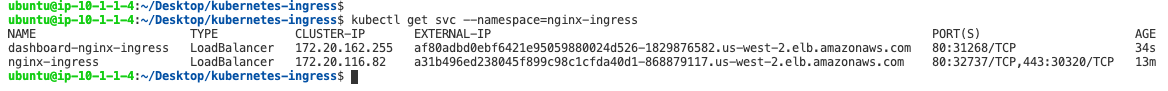
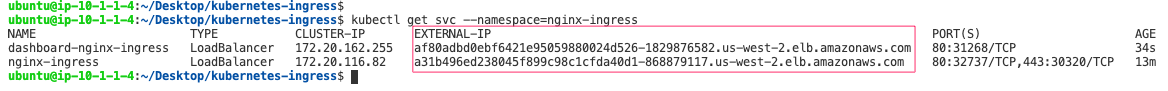
closes #64
removal of past tense context
labsetup wording for this will be deployed with terraform
image update for image27

Changed region(s): [[0.339, 0.7692, 0.8014, 0.8132], [0.339, 0.2637, 0.8014, 0.3077]]

diff --git a/docs/solutions/delivery/application_delivery_controller/nginx/kic/lab01.rst b/docs/solutions/delivery/application_delivery_controller/nginx/kic/lab01.rst
@@ -1,9 +1,9 @@
 NGINX Kubernetes Ingress Controller | Deployment
 ------------------------------------------------
 
-NGINX Ingress Controller provides a robust feature set to secure, strengthen, and scale your containerized apps, including:
+NGINX Ingress Controller provides a robust feature set to secure, strengthen, and scale containerized apps, including:
 
-- Advanced app centric configuration - Use role-based access control (RBAC) and self service to set up security guardrails (not gates), so your teams can manage their apps securely and with agility. Enable multi tenancy, reusability, simpler configs, and more.
+- Advanced app centric configuration - Use role-based access control (RBAC) and self service to set up security guardrails (not gates), so teams can manage their apps securely and with agility. Enable multi tenancy, reusability, simpler configs, and more.
 - Visibility and performance monitoring - Pinpoint undesirable behaviors and performance bottlenecks to simplify troubleshooting and make fixes faster.
 
 |image00|
@@ -26,9 +26,9 @@ NGINX Ingress Controller provides a robust feature set to secure, strengthen, an
 
    |image49|
 
-   This solution uses the purchased NGINX Ingress Controller. Through your account team, workshop registration, or an instructor, you should have received an NGINX certificate and key to access the NGINX registry. Access to the registry allows for building current NGINX products.
+   This solution uses the purchased NGINX Ingress Controller. Through an account team, workshop registration, or an instructor, you should have received an NGINX certificate and key to access the NGINX registry. Access to the registry allows for building current NGINX products.
 
-   VSCode Coder will allow you to drag files into the interface. Drag your two files to the **root** of the `Kubernetes-ingress` folder.
+   VSCode Coder will allow you to drag files into the interface. Drag the cert and key files to the **root** of the `Kubernetes-ingress` folder.
 
    Example:
 
@@ -42,7 +42,7 @@ NGINX Ingress Controller provides a robust feature set to secure, strengthen, an
 
       cat nginx-repo.*
 
-3. Verify that you have your certificate and key
+3. Verify that you have a certificate and key
 
    In the terminal window, copy the below text and paste+enter:
 
@@ -60,13 +60,13 @@ NGINX Ingress Controller provides a robust feature set to secure, strengthen, an
 
    .. note:: Building the image will take a few minutes (3-5)
 
-   Within the Kubernetes-ingress repository are all the needed files to create our nginx ingress controller docker image. With the certificate and key in place, we can **make** our image. After the image is created, our local installation of docker will push our image to the ECR we created with Terraform earlier. When Terraform applied our ECR object, it output the name of our registry. Its output was a prefix and looked like a URL.
+   Within the Kubernetes-ingress repository are all the needed files to create our NGINX Ingress Controller docker image. With the certificate and key in place, we can **make** our image. After the image is created, our local installation of docker will push our image to the ECR we created with Terraform. When Terraform applied our ECR object, it output the name of our registry. Its output was a prefix and looked like a URL.
 
    Example of Terraform outputs:
 
    |image12|
 
-   Step 1. In the terminal window, **replace** ``ecrRepositoryURL`` with your output and copy the below text and paste+enter:
+   Step 1. In the terminal window, **replace** ``ecrRepositoryURL`` with the output value and copy the below text and paste+enter:
 
    .. code-block::
 
@@ -96,7 +96,7 @@ NGINX Ingress Controller provides a robust feature set to secure, strengthen, an
 
 6. Modify the NGINX Kubernetes Ingress Controller manifest
 
-   .. warning:: Failure to update the manifest with your image:tag location will result in a failed deployment. Change Line ``1791``
+   .. warning:: Failure to update the manifest with a valid image:tag location will result in a failed deployment. Change Line ``1791``
 
    Kubernetes deployments are typically maintained through manifest files. The deployment of the NGINX Ingress Controller will be created through manifests. Multiple Kubernetes resources can be made through a single file. This environments to-be-created resources are declared in the ``nginx-ingress-install.yml`` file.
 
@@ -115,7 +115,7 @@ NGINX Ingress Controller provides a robust feature set to secure, strengthen, an
     - NGINX Ingress Controller deployment
     - NGINX Ingress Controller service
 
-   Step 1. Modify the manifests file on line ``1791`` for your ``image:tag``
+   Step 1. Modify the manifests file on line ``1791`` for the ``image:tag`` value
 
    .. note:: Docker images and tags can be found by running the docker command ``docker images``
 
@@ -137,11 +137,19 @@ NGINX Ingress Controller provides a robust feature set to secure, strengthen, an
 
 7. Deploy the NGINX Kubernetes Ingress Controller
 
+   .. note:: If the NGINX Ingress Controller Pod is not in a **running** state, verify the **image:tag** value is correct from deployment manifest
+
    In the terminal window copy the below text and paste+enter:
 
    .. code-block::
 
       kubectl apply -f /home/ubuntu/Desktop/f5-digital-customer-engagement-center/solutions/delivery/application_delivery_controller/nginx/kic/templates/nginx-ingress-install.yml
+
+   Validate that the NGINX Ingress Controller is running:
+
+   .. code-block::
+
+      kubectl -n nginx-ingress get pods -o wide
 
    Example:
 
@@ -163,7 +171,7 @@ NGINX Ingress Controller provides a robust feature set to secure, strengthen, an
 
 9. See the NGINX Ingress Controller services
 
-   .. note:: The **EXTERNAL-IP** values will be used during several parts of the lab. It is recommended to copy these to an easily referenceable location like a clipboard/digital notepad
+   .. warning:: The **EXTERNAL-IP** values will be used during several parts of the lab, in AWS this is an FQDN. It is recommended to copy these to an easily referenceable location like a clipboard/digital notepad
 
    The deployment of NGINX Controller Ingress contains two Kubernetes services: Ingress and the other for Dashboard.
 
@@ -190,15 +198,17 @@ NGINX Ingress Controller provides a robust feature set to secure, strengthen, an
 
 11. Browse to the exposed NGINX Ingress Controller services
 
+   .. note:: The Dashboard and the Ingress websites will take a few minutes to become available (1-3 Minutes)
+
     There is nothing yet deployed on NGINX Ingress Controller. However, the Dashboard and the Ingress are active. When the services were created in Kubernetes, Kubernetes created an AWS ELB. These ELBs allow for access to the services, and if the NGINX services ever scale, they will dynamically be added.
 
-    NGINX Dashboard URL (replace with your dashboard-nginx-ingress EXTERNAL-IP): ``http://EXTERNAL-IP/Dashboard.html``
+    NGINX Dashboard URL (replace with the dashboard-nginx-ingress EXTERNAL-IP): ``http://EXTERNAL-IP/Dashboard.html``
 
     Example:
 
     |image28|
 
-    NGINX Ingress Controller URL (replace with your nginx-ingress EXTERNAL-IP): ``http://EXTERNAL-IP/``
+    NGINX Ingress Controller URL (replace with the nginx-ingress EXTERNAL-IP): ``http://EXTERNAL-IP/``
 
     Example:
 

diff --git a/docs/solutions/delivery/application_delivery_controller/nginx/kic/labSetupAWS.rst b/docs/solutions/delivery/application_delivery_controller/nginx/kic/labSetupAWS.rst
@@ -5,8 +5,7 @@ Terraform_ is an open-source infrastructure as code software tool that provides 
 
 `Visual Studio Code`_ is a streamlined code editor with support for development operations like debugging, task running, and version control.
 
-
-This solution requires the following products and services.
+This solution is leveraging Terraform to create and manage the following products and services.
 
 - Amazon Elastic Container Registry (ECR)
 - Amazon Elastic Kubernetes Service (EKS)
@@ -26,7 +25,7 @@ This solution requires the following products and services.
    * OpenSSL, optionally, if you would like to generate a self-signed certificate and a key for the default server.
    * For NGINX Plus, you must have the NGINX Plus license - the certificate (nginx-repo.crt) and the key (nginx-repo.key).
 
-.. note:: Double-clicking in the empty space of VSCode will create a new file that can be used as a digital notepad
+.. note:: Double-clicking in the empty space to the right of **Welcome** tab in VSCode will create a new file that can be used as a digital notepad
 
 1. VSCode is our preferred IDE. This allows an editor and terminal within a single pane, open VSCode, and a new Terminal. If you are in the UDF environment, you can access VSCode through the **coder** access method on the **ubuntuHost** resource. Also, see `F5 UDF Environment Access`_.
 
@@ -34,7 +33,7 @@ This solution requires the following products and services.
 
    |image01|
 
-2. Set or verify your AWS credentials
+2. Set or verify environment AWS credentials
 
    .. note:: AWS Access and Secret keys for the UDF environment are located under **cloud accounts**
    .. warning:: For UDF users, the region must be ``us-west-2``
@@ -44,6 +43,17 @@ This solution requires the following products and services.
    .. code-block::
 
       aws configure
+
+   Variables Table for awscli to UDF Cloud Accounts:
+
+   ===================== ===========================================================
+   Variable Name         Cloud Account Variable Value
+   ===================== ===========================================================
+   AWS Access Key ID     API Key
+   AWS Secret Access Key API Secret
+   Default region name   us-west-2
+   Default ouput format  json
+   ===================== ===========================================================
 
    Example:
 
@@ -89,7 +99,7 @@ This solution requires the following products and services.
 
       cat ~/udf_user.pub
 
-   Copy the output to be used in the next step, or provide your SSH key.
+   Copy the output to be used in the next step, or provide an SSH key.
 
    Example:
 
@@ -124,7 +134,9 @@ This solution requires the following products and services.
    |image08|
    |image09|
 
-7. Run the setup script - this will create objects in your AWS account.
+7. Run the setup script - **This will create AWS resource objects**
+
+
 
    In the terminal window copy the below text and paste+enter:
 
@@ -156,7 +168,7 @@ This solution requires the following products and services.
 
    |image12|
 
-10. All of the Terraform-created objects are dynamic, so until running the Terraform template they didn’t exist. Now that the resources are created, we need to apply access to those services.
+10. All of the Terraform-created objects are dynamic, so until running the Terraform template they did not exist. Now that the resources are created, we need to apply access to those services.
 
     Step 1: Log in to ECR. Change the ``ecrRepositoryURL`` to the terraform output.
 
@@ -164,7 +176,7 @@ This solution requires the following products and services.
 
     .. code-block::
 
-       aws ecr get-login-password --region us-west-2 | docker login --username AWS --password-stdin  ecrRepositoryURL
+       aws ecr get-login-password --region us-west-2 | docker login --username AWS --password-stdin ecrRepositoryURL
 
     ECR is used as our registry for the Kubernetes environment. Registries are used to keep container images for  lifecycle and deployments. NGINX Ingress Controller is a container.
 

diff --git a/docs/solutions/delivery/application_delivery_controller/nginx/kic/lab03.rst b/docs/solutions/delivery/application_delivery_controller/nginx/kic/lab03.rst
@@ -34,7 +34,7 @@ Custom resources can appear and disappear in a running cluster through dynamic r
 
    NGINX Dashboard should be updated reflecting the new services discovered
 
-   NGINX Dashboard URL (replace with your dashboard-nginx-ingress EXTERNAL-IP): ``http://EXTERNAL-IP/Dashboard.html``
+   NGINX Dashboard URL (replace with the dashboard-nginx-ingress EXTERNAL-IP): ``http://EXTERNAL-IP/Dashboard.html``
 
    Example:
 
@@ -42,7 +42,7 @@ Custom resources can appear and disappear in a running cluster through dynamic r
 
    Arcadia application is now exposed through the NGINX Ingress Controller on HTTP!
 
-   NGINX Ingress Controller URL (replace with your nginx-ingress EXTERNAL-IP): ``http://EXTERNAL-IP/``
+   NGINX Ingress Controller URL (replace with the nginx-ingress EXTERNAL-IP): ``http://EXTERNAL-IP/``
 
    Example:
 
@@ -70,7 +70,7 @@ Custom resources can appear and disappear in a running cluster through dynamic r
 
    Arcadia application is now exposed through the NGINX Ingress Controller on HTTP!
 
-   NGINX Ingress Controller URL (replace with your nginx-ingress EXTERNAL-IP): ``https://EXTERNAL-IP/`` or ``https://EXTERNAL-IP/``
+   NGINX Ingress Controller URL (replace with the nginx-ingress EXTERNAL-IP): ``https://EXTERNAL-IP/`` or ``https://EXTERNAL-IP/``
 
 3. HTTPS with Active Monitors
 
@@ -89,7 +89,7 @@ Custom resources can appear and disappear in a running cluster through dynamic r
 
    NGINX Dashboard should be updated reflecting the active monitors
 
-   NGINX Dashboard URL (replace with your dashboard-nginx-ingress EXTERNAL-IP): ``http://EXTERNAL-IP/dashboard.html#upstreams``
+   NGINX Dashboard URL (replace with the dashboard-nginx-ingress EXTERNAL-IP): ``http://EXTERNAL-IP/dashboard.html#upstreams``
 
    Example:
 
@@ -97,7 +97,7 @@ Custom resources can appear and disappear in a running cluster through dynamic r
 
    Arcadia application is now exposed through the NGINX Ingress Controller only on HTTP with monitors!
 
-   NGINX Ingress Controller URL (replace with your nginx-ingress EXTERNAL-IP): ``https://EXTERNAL-IP/``
+   NGINX Ingress Controller URL (replace with the nginx-ingress EXTERNAL-IP): ``https://EXTERNAL-IP/``
 
 4. HTTPS with Active Monitors, Caching
 
@@ -133,13 +133,13 @@ Custom resources can appear and disappear in a running cluster through dynamic r
 
    Arcadia application is now exposed through the NGINX Ingress Controller only on HTTP with monitors and caching!
 
-   NGINX Ingress Controller URL (replace with your nginx-ingress EXTERNAL-IP): ``https://EXTERNAL-IP/``
+   NGINX Ingress Controller URL (replace with the nginx-ingress EXTERNAL-IP): ``https://EXTERNAL-IP/``
 
 4. Https with Active Monitors, Caching, mTLS
 
    NGINX Ingress Controller can participate in the mTLS cert exchange with services.
 
-   By default, the TLS protocol only proves the identity of the server to the client using X.509 certificates, and the authentication of the client to the server is left to the application layer. TLS also offers client-to-server authentication using client-side X.509 authentication.[14] As it requires provisioning of the certificates to the clients and involves a less user-friendly experience, it is rarely used in end-user applications.
+   By default, the TLS protocol only proves the identity of the server to the client using X.509 certificates, and the authentication of the client to the server is left to the application layer. TLS also offers client-to-server authentication using client-side X.509 authentication. As it requires provisioning of the certificates to the clients and involves a less user-friendly experience, it is rarely used in end-user applications.
 
    Mutual TLS authentication (**mTLS**) is much more widespread in business-to-business (B2B) applications, where a limited number of programmatic and homogeneous clients are connecting to specific web services, the operational burden is limited, and security requirements are usually much higher as compared to consumer environments.
 

diff --git a/docs/solutions/delivery/application_delivery_controller/nginx/kic/nginx_kic_index.rst b/docs/solutions/delivery/application_delivery_controller/nginx/kic/nginx_kic_index.rst
@@ -1,9 +1,9 @@
 Nginx - Kubernetes Ingress Controller
 -------------------------------------
 
-NGINX Ingress Controller provides a robust feature set to secure, strengthen, and scale your containerized apps, including:
+NGINX Ingress Controller provides a robust feature set to secure, strengthen, and scale containerized apps, including:
 
-- Advanced app centric configuration - Use role-based access control (RBAC) and self-service to set up security guardrails (not gates), so your teams can manage their apps securely and with agility. Enable multi-tenancy, reusability, simpler configs, and more.
+- Advanced app centric configuration - Use role-based access control (RBAC) and self-service to set up security guardrails (not gates), so teams can manage their apps securely and with agility. Enable multi-tenancy, reusability, simpler configs, and more.
 - Visibility and performance monitoring - Pinpoint undesirable behaviors and performance bottlenecks to simplify troubleshooting and make fixes faster.
 
 |image00|

diff --git a/docs/solutions/delivery/application_delivery_controller/nginx/kic/lab02.rst b/docs/solutions/delivery/application_delivery_controller/nginx/kic/lab02.rst
@@ -12,7 +12,7 @@ The application is built with four different microservices that are deployed in 
 All of our pods are created based on the `NGINX Unit`_ application server.
 
 
-NGINX Unit is a dynamic application server capable of running beside NGINX Plus and NGINX Open Source or standalone. NGINX Unit supports a RESTful JSON API, deploys configuration changes without service disruptions, and runs apps built with multiple languages and frameworks. Designed from scratch around your distributed applications needs, it lays the foundation for your service mesh.
+NGINX Unit is a dynamic application server capable of running beside NGINX Plus and NGINX Open Source or standalone. NGINX Unit supports a RESTful JSON API, deploys configuration changes without service disruptions, and runs apps built with multiple languages and frameworks. Designed from scratch around distributed applications needs, it lays the foundation for service mesh.
 
 |image50|
 
